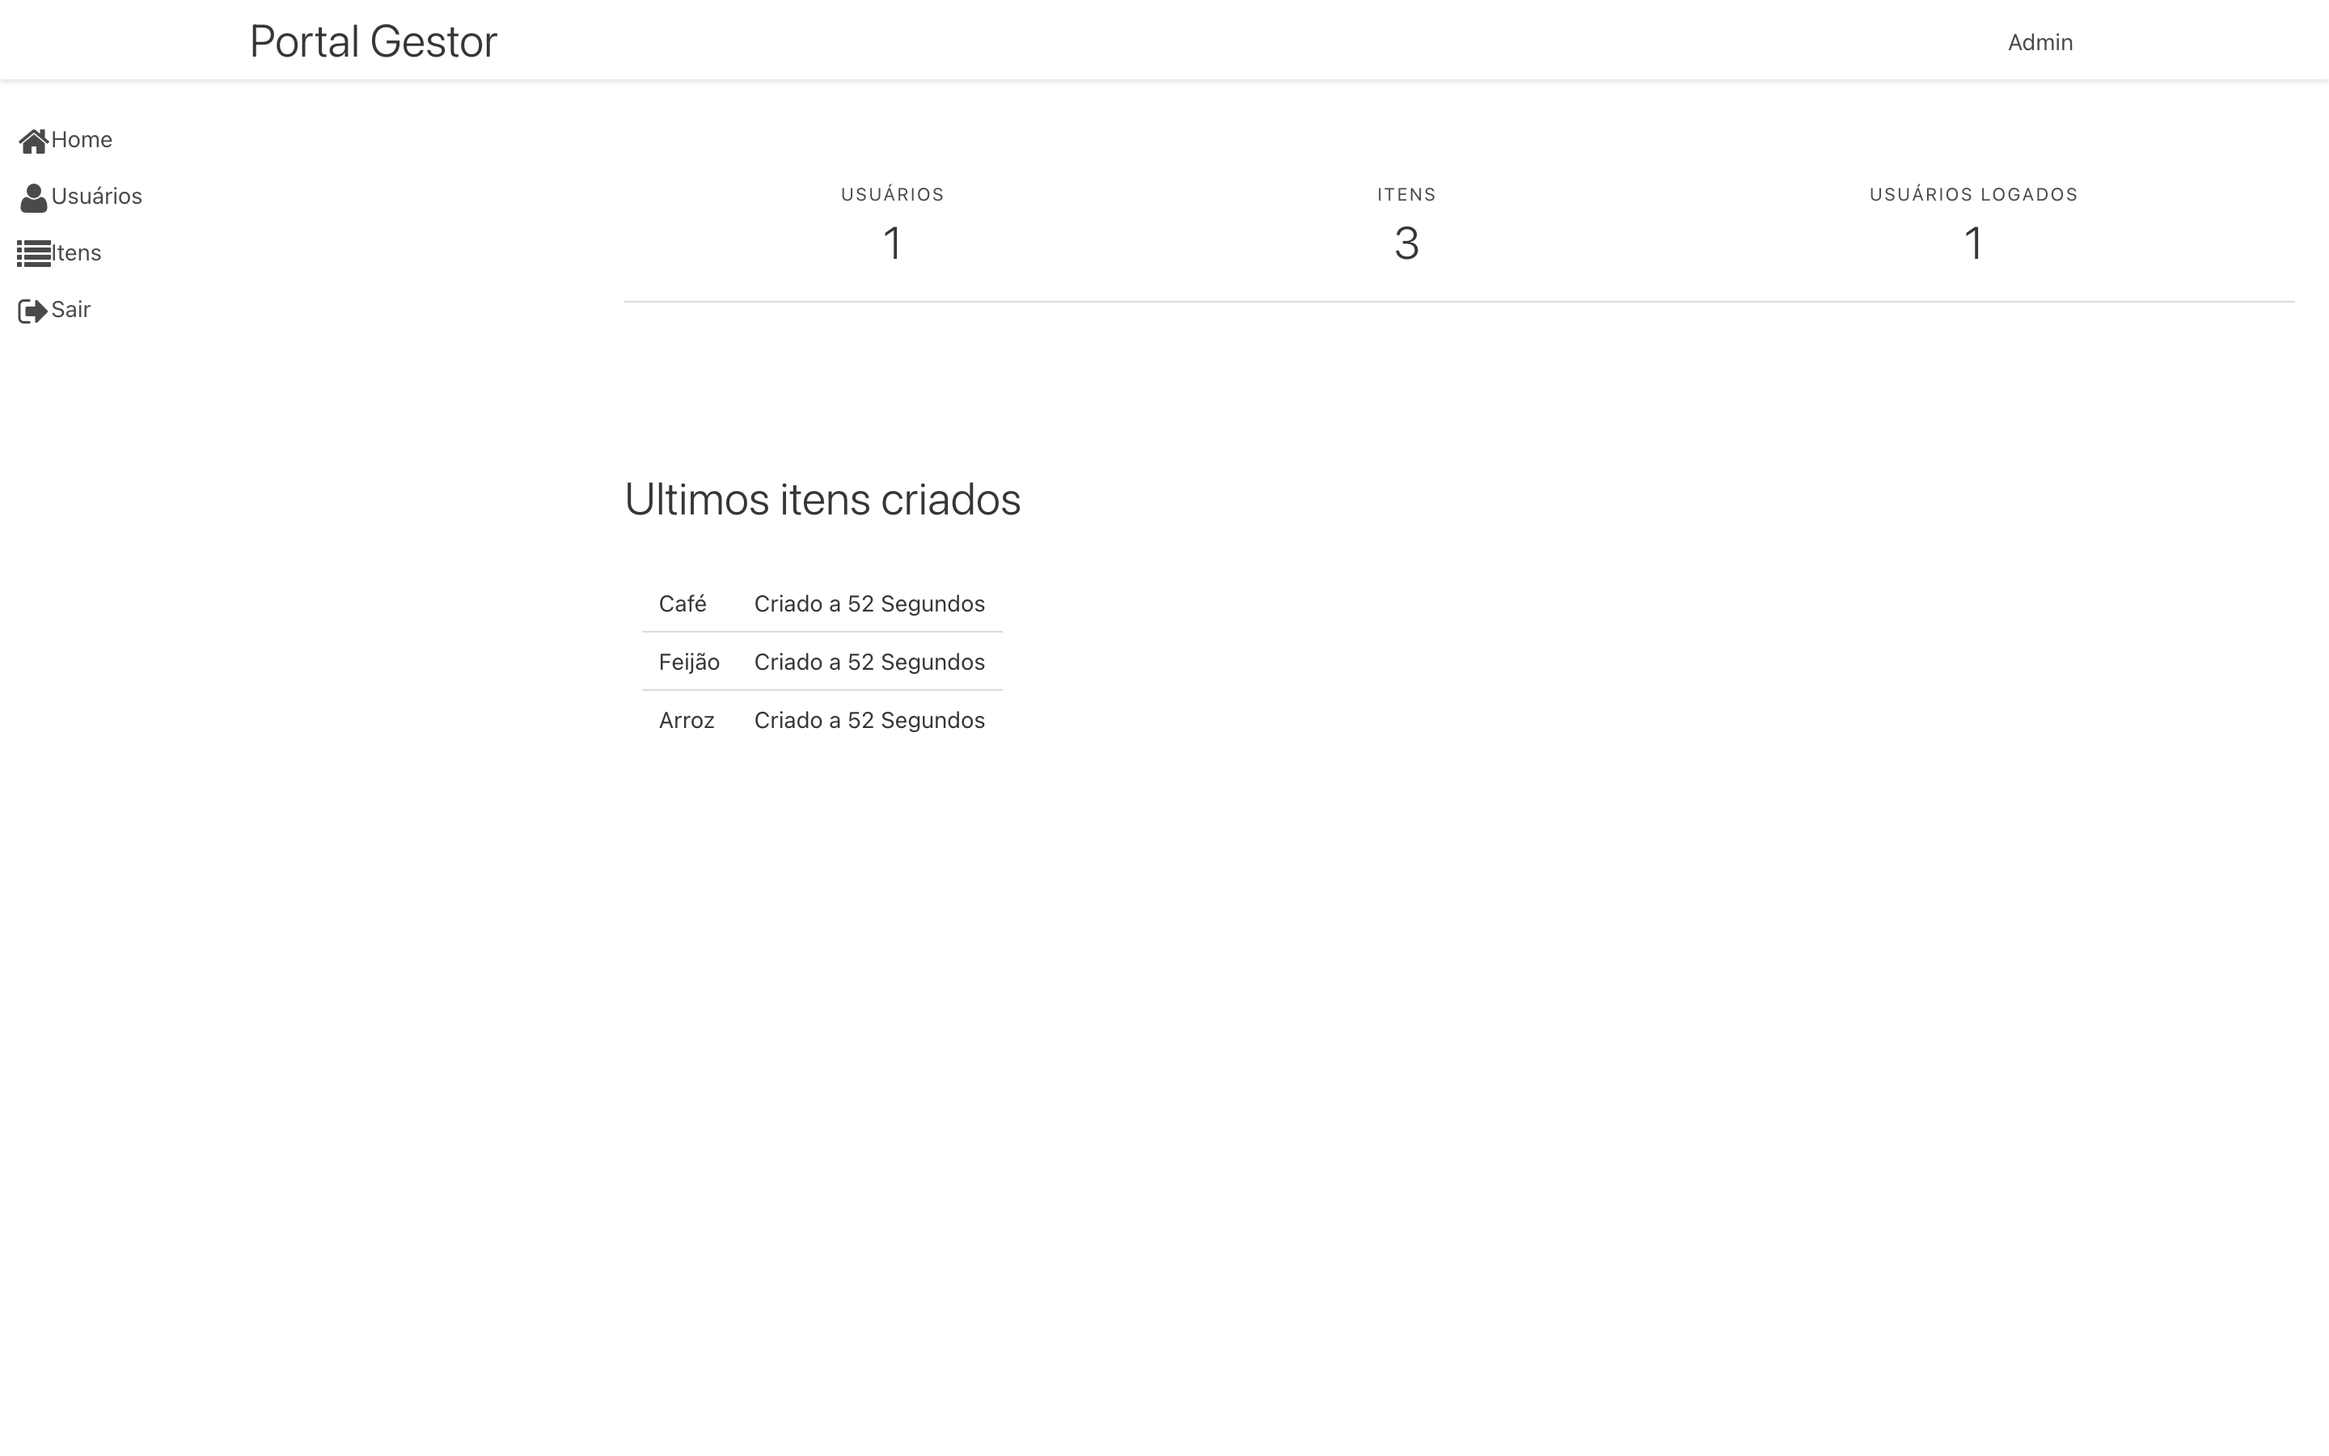
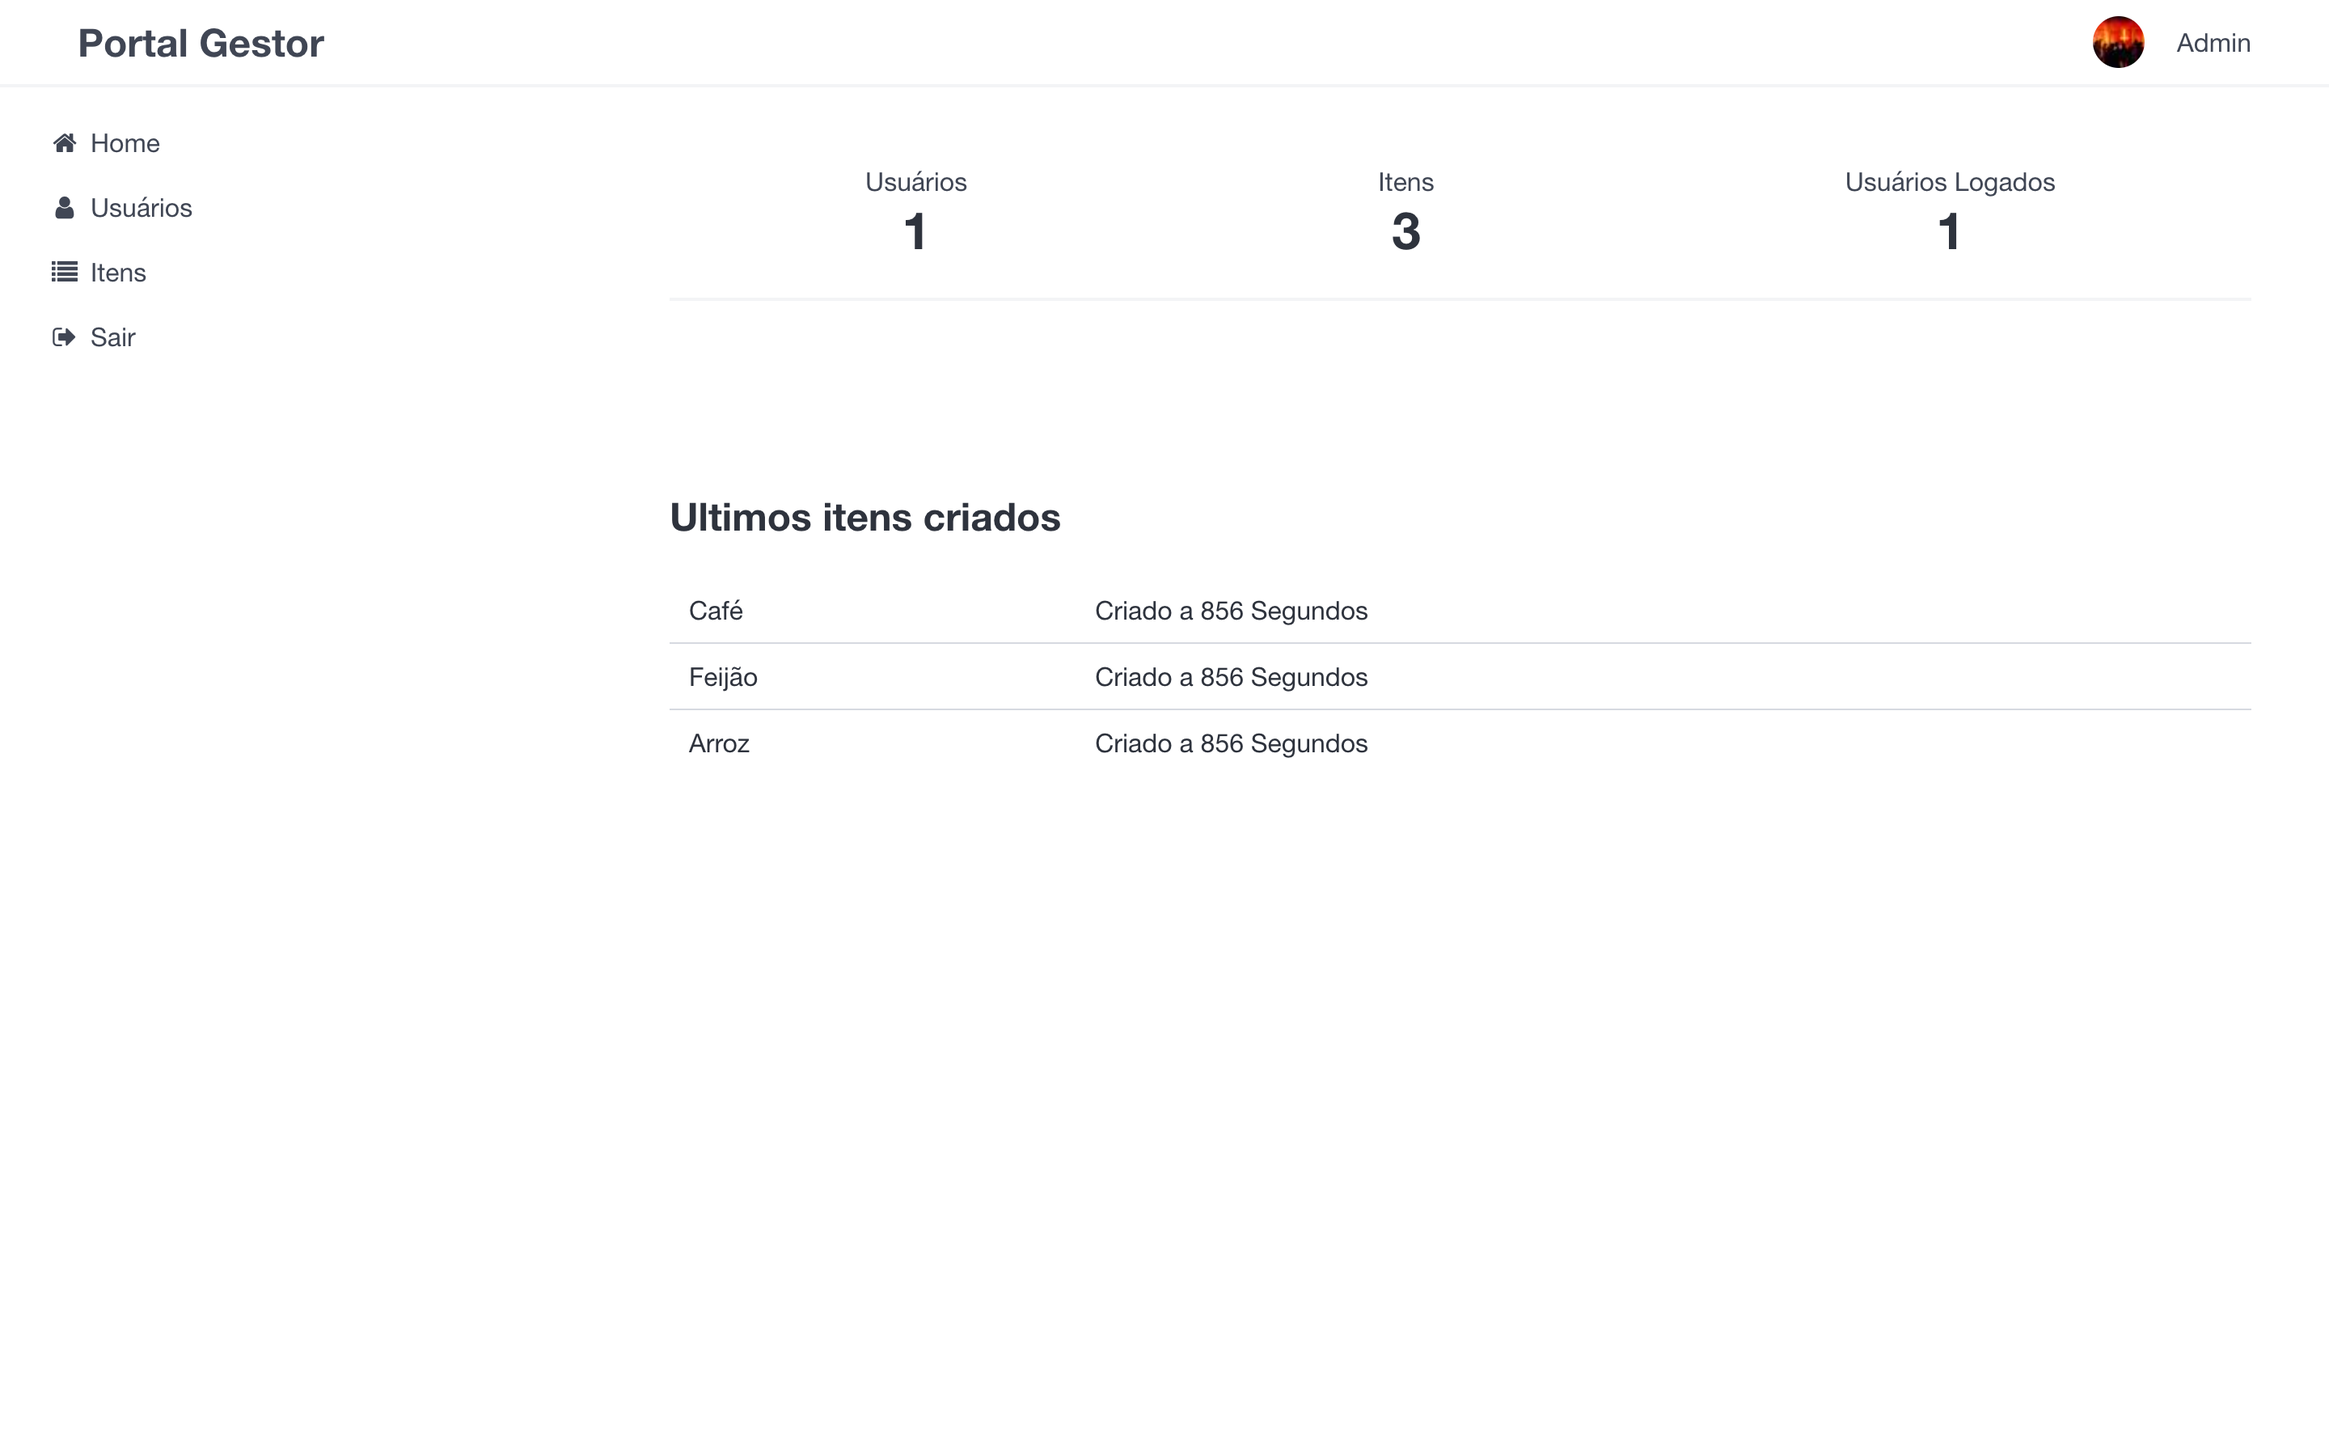
portal: fix UI inconsistencies by upgrading Bulma 0.3.1 -> 1.0
- bulma 1.0.4 + font-awesome 4.7 CDNs, pinned light theme
- navbar: old 'nav' markup -> modern 'navbar' with rounded avatar
- sidebar menu: icon-text spans for icon/label spacing and p-4
- tables: is-fullwidth everywhere; item actions as small
  info/danger buttons
- disabled states: 'is-disabled' class (removed from bulma) ->
  native :disabled attribute
- auth forms: has-icon -> has-icons-left; name field was
  type=email with envelope icon, now text with user icon
- refresh README screenshot

diff --git a/portal/src/app/auth/components/signup.vue b/portal/src/app/auth/components/signup.vue
@@ -8,47 +8,47 @@
       <div class="content">
         <h3>Nome:</h3>
         <div class="field">
-          <p class="control has-icon">
+          <p class="control has-icons-left">
             <input
               aria-label="test"
               class="input is-medium"
-              type="email"
+              type="text"
               placeholder="Your name"
               v-model="name"
             >
-            <span class="icon is-medium">
-              <i class="fa fa-envelope"></i>
+            <span class="icon is-medium is-left">
+              <i class="fa fa-user"></i>
             </span>
           </p>
         </div>
         <h3>Email:</h3>
         <div class="field">
-          <p class="control has-icon">
+          <p class="control has-icons-left">
             <input
               aria-label="test"
               class="input is-medium" type="email" placeholder="your@email.com" v-model="email"
             >
-            <span class="icon is-medium">
+            <span class="icon is-medium is-left">
               <i class="fa fa-envelope"></i>
             </span>
           </p>
         </div>
         <h3>Senha:</h3>
         <div class="field">
-          <p class="control has-icon">
+          <p class="control has-icons-left">
             <input
               aria-label="test"
               v-bind:class="{ 'is-success': this.password.length >= 6 }" class="input is-medium"
               type="password" placeholder="Password" v-model="password"
             >
-            <span class="icon is-medium">
+            <span class="icon is-medium is-left">
               <i class="fa fa-lock"></i>
             </span>
           </p>
         </div>
       <h3>Confirmar senha:</h3>
       <div class="field">
-        <p class="control has-icon">
+        <p class="control has-icons-left">
           <input
             aria-label="test"
             v-bind:class="{
@@ -57,7 +57,7 @@
             }"
             class="input is-medium" type="password" placeholder="Password" v-model="pwConfirm"
           >
-          <span class="icon is-medium">
+          <span class="icon is-medium is-left">
             <i class="fa fa-lock"></i>
           </span>
         </p>
@@ -67,7 +67,7 @@
     <footer class="modal-card-foot">
       <button
         aria-label="test"
-        v-bind:class="{ 'is-disabled' : !(isPassConfirmed()) || this.password === '' }"
+        :disabled="!(isPassConfirmed()) || this.password === ''"
         class="button is-success" @click="submit">Registrar</button>
     </footer>
   </div>

diff --git a/portal/src/app/users/components/list.vue b/portal/src/app/users/components/list.vue
@@ -13,14 +13,12 @@
       </div>
       <div v-if="getUser.isAdmin" class="level-right">
         <div class="level-item">
-          <button type="button" v-bind:class="{
-            'is-disabled' : this.checkedIds.length <= 0
-            }" class="button is-danger" @click="remove">Remover</button>
+          <button type="button" :disabled="checkedIds.length <= 0"
+            class="button is-danger" @click="remove">Remover</button>
         </div>
         <div class="level-item">
-          <button type="button" v-bind:class="{
-            'is-disabled' : this.checkedIds.length !== 1
-            }" class="button is-info" @click="edit">Editar</button>
+          <button type="button" :disabled="checkedIds.length !== 1"
+            class="button is-info" @click="edit">Editar</button>
         </div>
         <div class="level-item">
           <button class="button is-primary" @click="navigate('newuser.form')">Novo</button>
@@ -28,7 +26,7 @@
       </div>
     </nav>
     <hr>
-    <table class="table">
+    <table class="table is-fullwidth">
       <thead>
         <tr>
           <th></th>
@@ -53,14 +51,12 @@
       </div>
       <div class="level-right">
         <div class="level-item">
-          <button type="button" v-bind:class="{
-            'is-disabled' : this.checkedIds.length <= 0
-            }" class="button is-danger" @click="remove">Remover</button>
+          <button type="button" :disabled="checkedIds.length <= 0"
+            class="button is-danger" @click="remove">Remover</button>
         </div>
         <div class="level-item">
-          <button type="button" v-bind:class="{
-            'is-disabled' : this.checkedIds.length !== 1
-            }" class="button is-info" @click="edit">Editar</button>
+          <button type="button" :disabled="checkedIds.length !== 1"
+            class="button is-info" @click="edit">Editar</button>
         </div>
         <div class="level-item">
           <button class="button is-primary" @click="navigate('newuser.form')">Novo</button>

diff --git a/portal/src/components/menu.vue b/portal/src/components/menu.vue
@@ -1,29 +1,37 @@
 <template>
   <div class="column is-3">
-    <aside class="menu">
+    <aside class="menu p-4">
       <ul class="menu-list">
         <li>
           <a @click="navigate('dashboard')" @keypress="navigate('dashboard')">
-            <span class="icon"><i class="fa fa-home"></i></span>
-            <span>Home</span>
+            <span class="icon-text">
+              <span class="icon"><i class="fa fa-home"></i></span>
+              <span>Home</span>
+            </span>
           </a>
         </li>
         <li>
           <a @click="navigate('users.list')" @keypress="navigate('users.list')">
-            <span class="icon"><i class="fa fa-user"></i></span>
-            <span>Usuários</span>
+            <span class="icon-text">
+              <span class="icon"><i class="fa fa-user"></i></span>
+              <span>Usuários</span>
+            </span>
           </a>
         </li>
         <li>
           <a @click="navigate('items.list')" @keypress="navigate('items.list')">
-            <span class="icon"><i class="fa fa-list"></i></span>
-            <span>Itens</span>
+            <span class="icon-text">
+              <span class="icon"><i class="fa fa-list"></i></span>
+              <span>Itens</span>
+            </span>
           </a>
         </li>
         <li>
           <a @click="logout" @keypress="logout">
-            <span class="icon"><i class="fa fa-sign-out"></i></span>
-            <span>Sair</span>
+            <span class="icon-text">
+              <span class="icon"><i class="fa fa-sign-out"></i></span>
+              <span>Sair</span>
+            </span>
           </a>
         </li>
       </ul>

diff --git a/portal/src/components/navbar.vue b/portal/src/components/navbar.vue
@@ -1,25 +1,26 @@
 <template>
-  <nav class="nav has-shadow tabs is-large">
+  <nav class="navbar has-shadow">
     <div class="container">
-      <div class="nav-left">
-        <p class="nav-item title is-3">
+      <div class="navbar-brand">
+        <p class="navbar-item title is-4 mb-0">
           Portal Gestor
         </p>
       </div>
-      <div class="nav-right">
-        <a class="nav-item is-tab">
-          <figure class="image is-32x32" style="margin-right: 10px;">
-            <img alt="profile-pic" :src="getUser.avatarUrl" style="border-radius: 4px;">
-          </figure>
-          {{ getUser.name }}
-        </a>
+      <div class="navbar-menu">
+        <div class="navbar-end">
+          <a class="navbar-item">
+            <figure class="image is-32x32 mr-2">
+              <img alt="profile-pic" class="is-rounded" :src="getUser.avatarUrl">
+            </figure>
+            {{ getUser.name }}
+          </a>
+        </div>
       </div>
     </div>
   </nav>
 </template>
 
 <script>
- 
 import { mapGetters } from 'vuex';
 
 export default {
@@ -31,7 +32,7 @@ export default {
 </script>
 
 <style>
-  .nav-item img {
-    max-height: 2.3rem;
+  .navbar-item img {
+    max-height: 2rem;
   }
 </style>

diff --git a/portal/src/app/auth/components/signin.vue b/portal/src/app/auth/components/signin.vue
@@ -8,7 +8,7 @@
       <div class="content">
         <h3>Email:</h3>
         <div class="field">
-          <p class="control has-icon">
+          <p class="control has-icons-left">
             <input
               aria-label="test"
               class="input is-medium"
@@ -16,14 +16,14 @@
               placeholder="your@email.com"
               v-model="email"
             >
-            <span class="icon is-medium">
+            <span class="icon is-medium is-left">
               <i class="fa fa-envelope"></i>
             </span>
           </p>
         </div>
         <h3>Senha:</h3>
         <div class="field">
-          <p class="control has-icon">
+          <p class="control has-icons-left">
             <input
               aria-label="test"
               class="input is-medium"
@@ -31,7 +31,7 @@
               placeholder="Password"
               v-model="password"
             >
-            <span class="icon is-medium">
+            <span class="icon is-medium is-left">
               <i class="fa fa-lock"></i>
             </span>
           </p>

diff --git a/portal/index.html b/portal/index.html
@@ -1,12 +1,12 @@
 <!DOCTYPE html>
-<html lang="">
+<html lang="" data-theme="light">
   <head>
     <meta charset="utf-8">
     <meta name="viewport" content="width=device-width,initial-scale=1.0">
     <link rel="icon" href="/favicon.ico">
     <title>Portal Gestor</title>
-    <link rel="stylesheet" type="text/css" href="https://cdnjs.cloudflare.com/ajax/libs/bulma/0.3.1/css/bulma.min.css"/>
-    <link rel="stylesheet" href="https://maxcdn.bootstrapcdn.com/font-awesome/4.6.3/css/font-awesome.min.css">
+    <link rel="stylesheet" type="text/css" href="https://cdn.jsdelivr.net/npm/bulma@1.0.4/css/bulma.min.css"/>
+    <link rel="stylesheet" href="https://cdnjs.cloudflare.com/ajax/libs/font-awesome/4.7.0/css/font-awesome.min.css">
   </head>
   <body>
     <noscript>

diff --git a/portal/src/app/items/components/list.vue b/portal/src/app/items/components/list.vue
@@ -18,7 +18,7 @@
       </div>
     </nav>
     <hr>
-    <table class="table">
+    <table class="table is-fullwidth">
       <thead>
         <tr>
           <th></th>
@@ -35,8 +35,9 @@
           <td>{{ item.solicitante }}</td>
           <td>{{ item.status }}</td>
           <td>
-            <a class="button is-link" @click="edit(item._id)" @keypress="edit(item._id)">Editar</a>
-            <a class="button is-link" @click="remove(item._id)"
+            <a class="button is-info is-small" @click="edit(item._id)"
+              @keypress="edit(item._id)">Editar</a>
+            <a class="button is-danger is-small" @click="remove(item._id)"
               @keypress="remove(item._id)">Apagar</a>
           </td>
         </tr>

diff --git a/portal/src/app/users/components/edit.vue b/portal/src/app/users/components/edit.vue
@@ -32,10 +32,9 @@
         </p>
       </div>
       <hr>
-      <button v-bind:class="{
-        'is-disabled' : this.name === '' && this.accessLevel === '' &&
-        this.email === '' && this.password === ''
-        }" type="button"  class="button is-primary" @click="edit">Editar</button>
+      <button :disabled="name === '' && accessLevel === '' &&
+        email === '' && password === ''"
+        type="button" class="button is-primary" @click="edit">Editar</button>
       <button type="button" class="button is-danger" @click="exit">Sair</button>
     </div>
   </div>

diff --git a/portal/src/app/items/components/form.vue b/portal/src/app/items/components/form.vue
@@ -28,9 +28,8 @@
         </p>
       </div>
       <hr>
-      <button v-bind:class="{
-        'is-disabled' : !(this.name !== '' && this.solicitante !== '' && this.status !== '')
-        }" type="button"  class="button is-primary" @click="submit">Registrar</button>
+      <button :disabled="!(name !== '' && solicitante !== '' && status !== '')"
+        type="button" class="button is-primary" @click="submit">Registrar</button>
       <button type="button" class="button is-danger" @click="exit">Sair</button>
     </div>
   </div>

diff --git a/portal/src/app/users/components/form.vue b/portal/src/app/users/components/form.vue
@@ -25,9 +25,8 @@
         </p>
       </div>
       <hr>
-      <button v-bind:class="{
-        'is-disabled' : !(this.name !== '' && this.email !== '' && this.password !== '')
-        }" type="button"  class="button is-primary" @click="submit">Registrar</button>
+      <button :disabled="!(name !== '' && email !== '' && password !== '')"
+        type="button" class="button is-primary" @click="submit">Registrar</button>
       <button type="button" class="button is-danger" @click="exit">Sair</button>
     </div>
   </div>

diff --git a/portal/src/app/items/components/edit.vue b/portal/src/app/items/components/edit.vue
@@ -34,10 +34,8 @@
         </p>
       </div>
       <hr>
-      <button v-bind:class="{
-        'is-disabled' : this.name === '' && this.solicitante === '' && this.status == ''
-        }"
-        type="button"  class="button is-primary" @click="edit"
+      <button :disabled="name === '' && solicitante === '' && status === ''"
+        type="button" class="button is-primary" @click="edit"
       >Editar</button>
       <button type="button" class="button is-danger" @click="exit">Sair</button>
     </div>

diff --git a/portal/src/app/dashboard/main.vue b/portal/src/app/dashboard/main.vue
@@ -27,8 +27,8 @@
     </section>
     <section class="section">
       <div class="container">
-        <h1 class="title is-8">Ultimos itens criados</h1>
-        <table class="table column is-8">
+        <h1 class="title is-4">Ultimos itens criados</h1>
+        <table class="table is-fullwidth">
           <tbody>
             <tr v-for="item in recentItems" :key="item.id">
               <td>{{ item.name }}</td>
